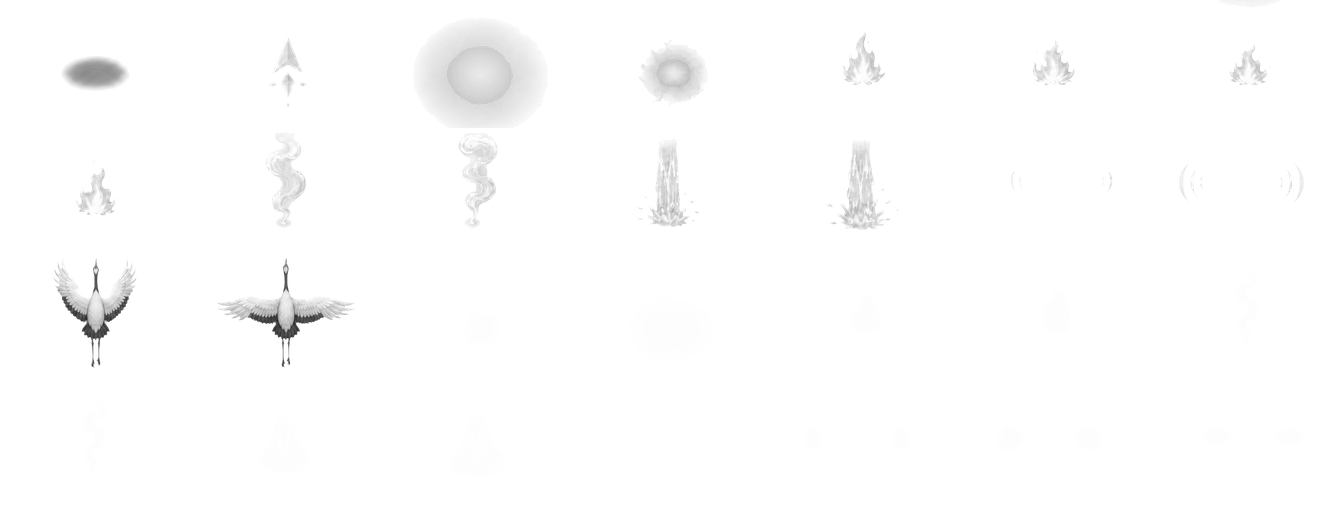
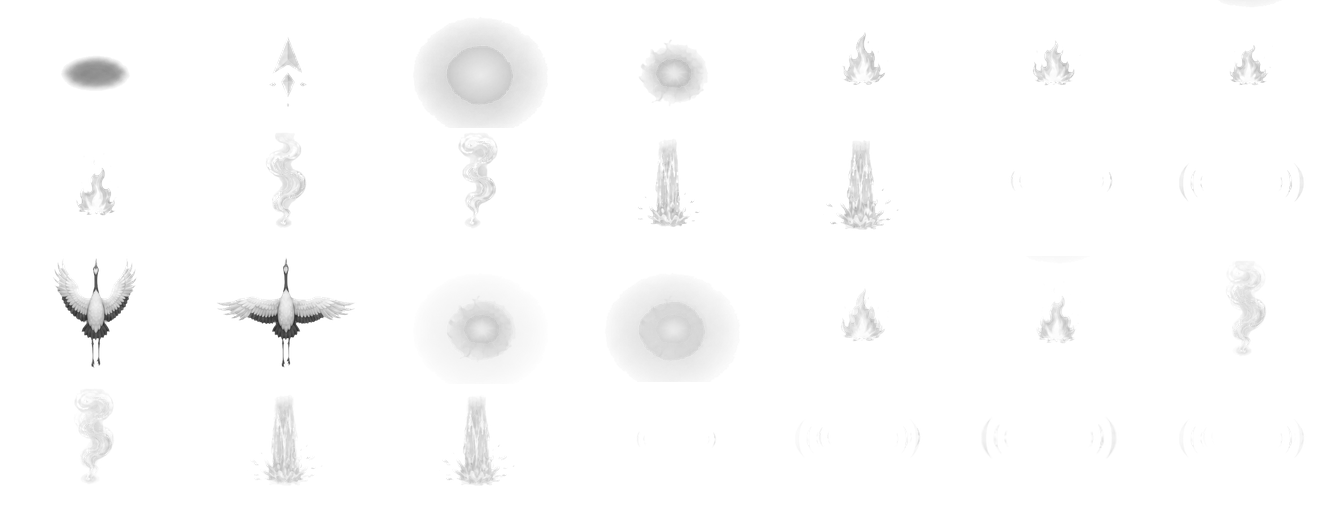
Better sizing and some shadows.

diff --git a/environments/three_branches/renderer/props-layer.ts b/environments/three_branches/renderer/props-layer.ts
@@ -9,7 +9,7 @@ import { frameRectangle } from './tint.js'
 
 import type { FrameScene, StaticDrawable, StaticScene } from './types.js'
 
-const PROP_SCALE = 0.125
+const PROP_SCALE = 0.14
 const SCENERY_SCALE = 0.25
 const EFFECT_SCALE = 0.25
 
@@ -39,6 +39,7 @@ interface PropNode {
   item: StaticDrawable
   root: Container
   fallback: Graphics
+  shadow: Sprite
   still: Sprite
   effect: Sprite
   emissive: Sprite
@@ -89,6 +90,8 @@ export function createPropLayer(
     if (art === null) return
     const shipped = isShippedPropType(node.item.type)
     node.fallback.visible = !shipped
+    node.shadow.visible = shipped
+    node.shadow.texture = shipped ? texture(art.effects, 'characterShadow') : Texture.EMPTY
     node.still.visible = shipped
     node.still.texture = shipped ? texture(art.props, propTreatment(node.item.type, state).frame) : Texture.EMPTY
   }
@@ -171,14 +174,15 @@ function createPropNode(item: StaticDrawable): PropNode {
   const root = new Container({ label: `prop:${item.id}` })
   root.position.set(centerX(item), centerY(item))
   root.rotation = facing(item.facing)
+  const shadow = propShadow(item)
   const fallbackNode = fallback(item, true)
   const still = propSprite('prop-still', Texture.EMPTY)
-  root.addChild(fallbackNode, still)
+  root.addChild(shadow, fallbackNode, still)
   const effect = sprite(`prop-effect:${item.id}`, Texture.EMPTY, EFFECT_SCALE)
   const emissive = sprite(`prop-emissive:${item.id}`, Texture.EMPTY, EFFECT_SCALE)
   effect.visible = false
   emissive.visible = false
-  return { item, root, fallback: fallbackNode, still, effect, emissive, state: null }
+  return { item, root, fallback: fallbackNode, shadow, still, effect, emissive, state: null }
 }
 
 function installScenery(layer: Container, item: StaticDrawable, art: PropArt): void {
@@ -196,14 +200,29 @@ function fallback(item: StaticDrawable, interactive: boolean): Graphics {
   const color = interactive ? PALETTE.prop : PALETTE.scenery
   if (item.shape === 'circle') node.circle(0, 0, Math.min(item.rect.width, item.rect.height) / 2).fill(color)
   else {
-    const turned = item.facing === 'east' || item.facing === 'west'
-    const width = turned ? item.rect.height : item.rect.width
-    const height = turned ? item.rect.width : item.rect.height
+    const { width, height } = localFootprint(item)
     node.rect(-width / 2, -height / 2, width, height).fill(color)
   }
   return node
 }
 
+function propShadow(item: StaticDrawable): Sprite {
+  const shadow = sprite('prop-contact-shadow', Texture.EMPTY, 1)
+  const { width, height } = localFootprint(item)
+  shadow.scale.set((width * 0.9) / 192, (height * 0.6) / 128)
+  shadow.tint = HEARTHSIDE_STYLE.palette.backdrop
+  shadow.alpha = 0.25
+  shadow.visible = false
+  return shadow
+}
+
+function localFootprint(item: StaticDrawable): { width: number; height: number } {
+  const turned = item.facing === 'east' || item.facing === 'west'
+  return {
+    width: turned ? item.rect.height : item.rect.width,
+    height: turned ? item.rect.width : item.rect.height,
+  }
+}
 function sprite(label: string, frame: Texture, scale: number): Sprite {
   const node = new Sprite({ label, texture: frame })
   node.anchor.set(0.5)
@@ -236,6 +255,7 @@ function framesFor(name: 'props' | 'scenery' | 'effects', atlasTexture: Texture)
   return Object.fromEntries(atlas.frames.names.map((frame) => [frame, new Texture({ source: atlasTexture.source, frame: frameRectangle(atlas.frames, frame) })]))
 }
 function preflightArt(art: PropArt): void {
+  texture(art.effects, 'characterShadow')
   for (const scenery of CATALOG.scenery) {
     if (scenery.token === 'pine') {
       texture(art.scenery, 'pineA')

diff --git a/environments/three_branches/renderer/characters.ts b/environments/three_branches/renderer/characters.ts
@@ -11,7 +11,7 @@ import { HEARTHSIDE_STYLE, PALETTE, THREE_BRANCHES_PRESENTATION } from './presen
 import { type FrameGrid, frameRectangle } from './tint.js'
 import type { CharacterDrawable, FrameScene } from './types.js'
 
-const CHARACTER_SCALE = THREE_BRANCHES_PRESENTATION.unitsPerMetre / 128
+const CHARACTER_SCALE = (THREE_BRANCHES_PRESENTATION.unitsPerMetre / 128) * 0.85
 
 /** Loaded pages needed to assemble the retained character art. */
 export interface CharacterAtlasTextures {

diff --git a/plans/days-at-three-branches/stages/5-1-art-style.md b/plans/days-at-three-branches/stages/5-1-art-style.md
@@ -180,7 +180,7 @@ After visual acceptance, tests cover every catalog state mapping, enabled-type p
 
 ### Prop sign-off
 
-The owner approved all ten complete prop still types on 2026-08-15. The maximum-zoom density correction and slower expanded animations remain pending the next manual owner review. Review the accepted slice by toggling `stall_0` and `lantern_0`, tending `plot_0`, waiting 600 ticks for its return, inspecting fitted, middle, and close zoom with collision overlays, and confirming north and south stall rotation. The review accepts no fragments, artwork inside each footprint, clear state changes, and correctly layered lantern glow.
+The owner approved all ten complete prop still types on 2026-08-15. The accepted still art remains approved. The next manual owner review covers the native-density correction, slower expanded animations, characters at 85% scale, props at 115% scale, and subtle prop contact shadows. State shadows may extend beyond collision, while gameplay and collision remain exact. Review the accepted slice by toggling `stall_0` and `lantern_0`, tending `plot_0`, waiting 600 ticks for its return, inspecting fitted, middle, and close zoom with collision overlays, and confirming north and south stall rotation. The review accepts no fragments, artwork inside each footprint, clear state changes, correctly layered lantern glow, and the pending calibration.
 
 ## Roofs
 
